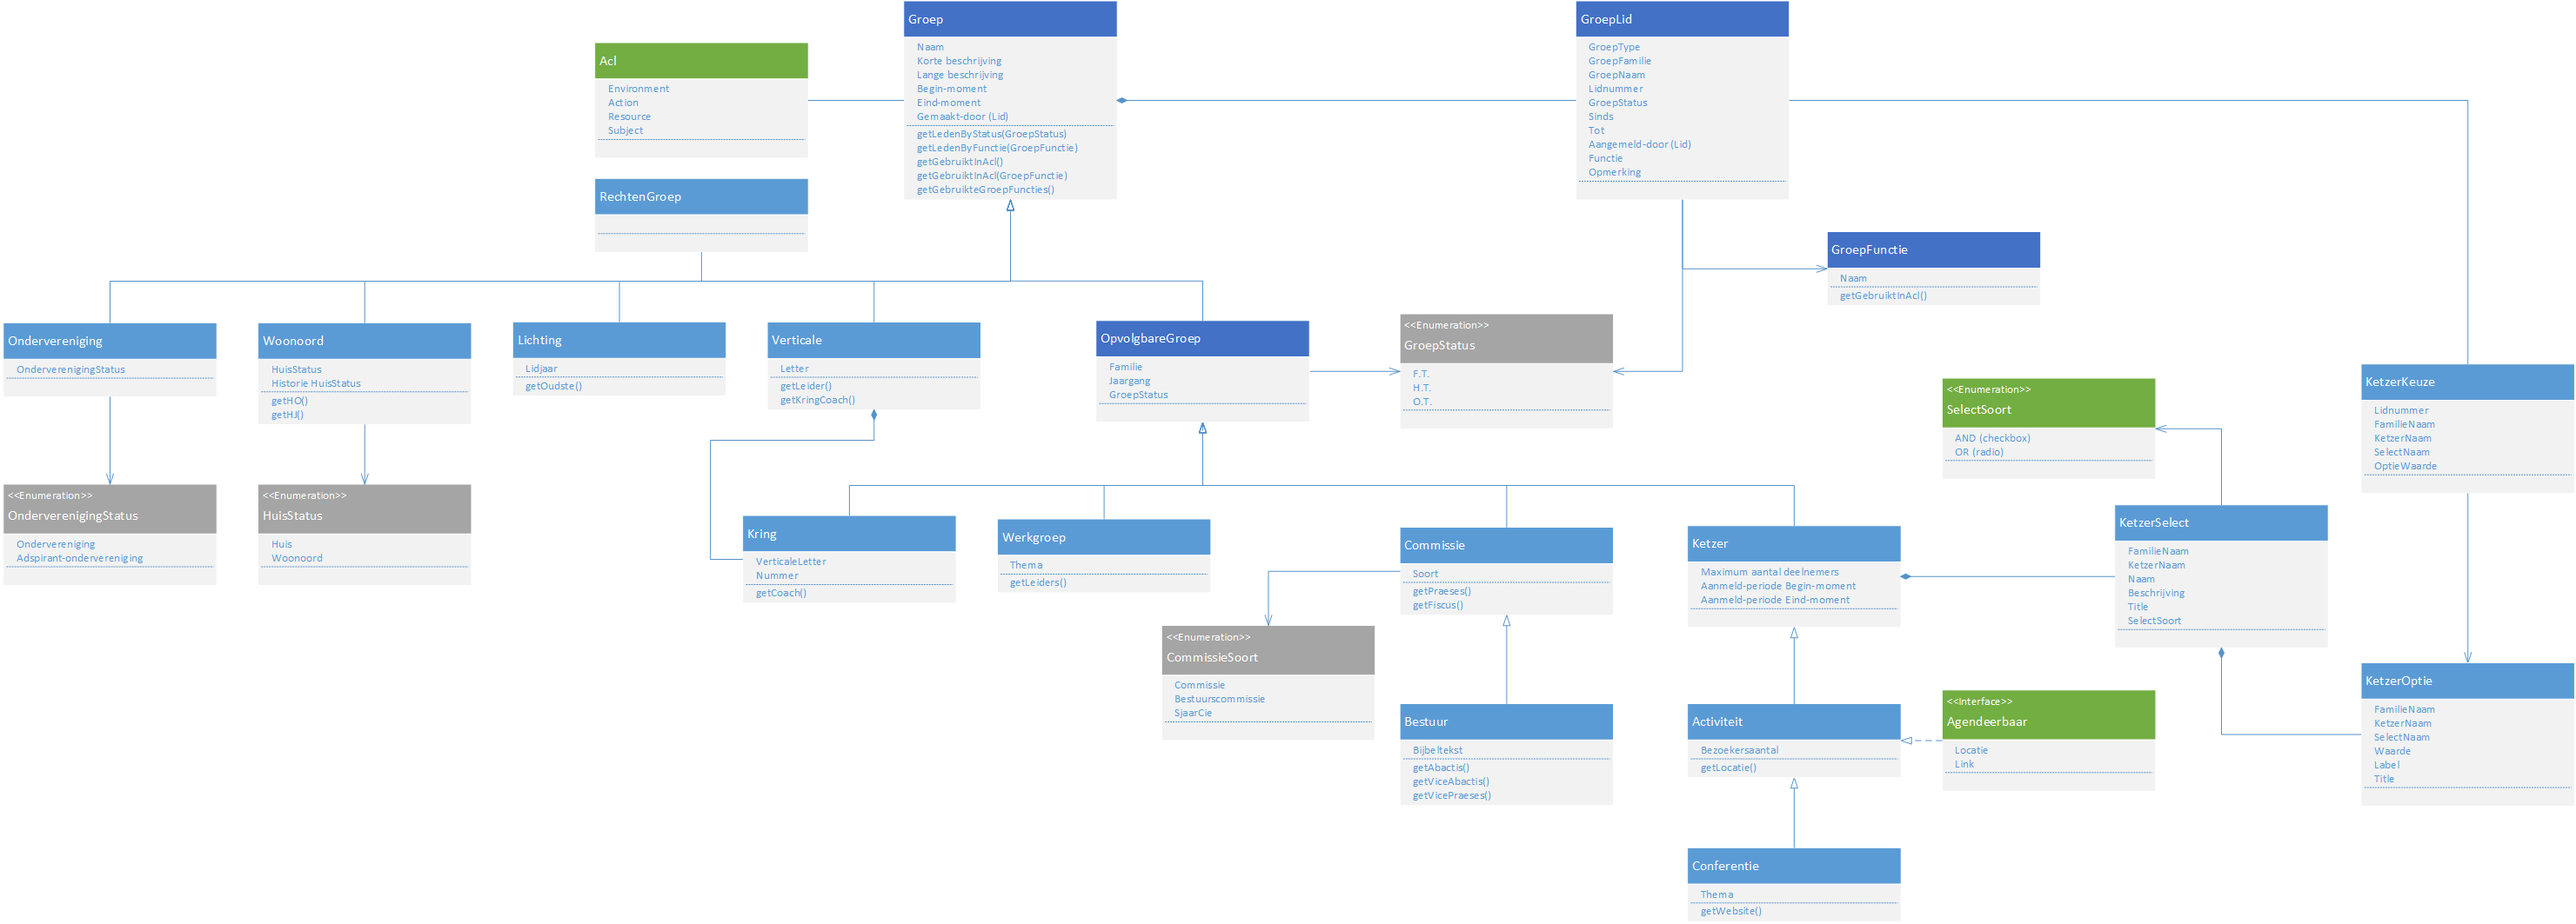
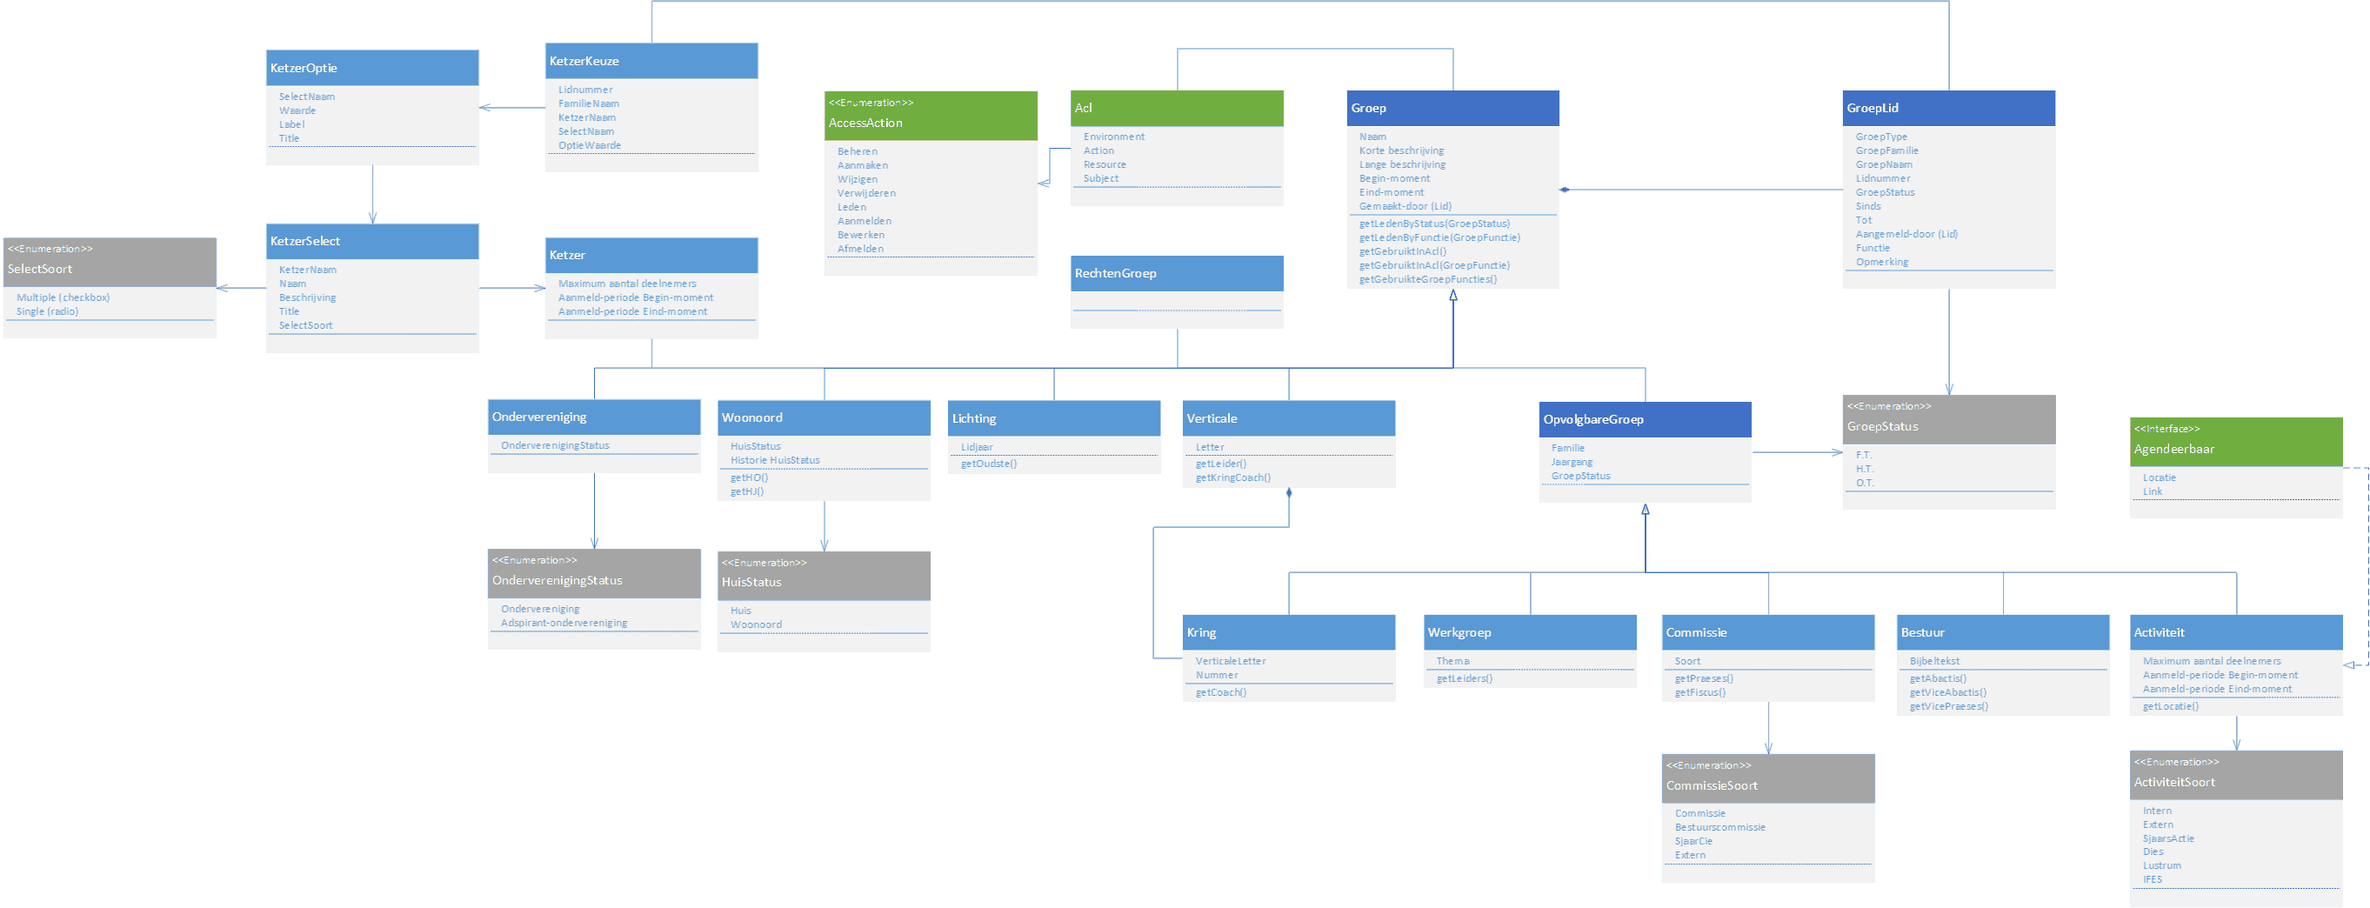
Opvolgbaar abstract; Ketzer niet opvolgbaar;

diff --git a/htdocs/layout/js/csrdelft.dataTables.js b/htdocs/layout/js/csrdelft.dataTables.js
@@ -206,6 +206,7 @@ function fnChildRow(table, $td, column) {
 			var innerDiv = tr.next().children(':first').children(':first');
 			innerDiv.slideUp(400, function () {
 				row.child.hide();
+				tr.removeClass('expanded');
 			});
 		}
 	}

diff --git a/lib/model/entity/groepen/Activiteit.class.php b/lib/model/entity/groepen/Activiteit.class.php
@@ -1,6 +1,5 @@
 <?php
 
-require_once 'model/entity/groepen/Ketzer.class.php';
 require_once 'model/entity/groepen/ActiviteitSoort.enum.php';
 
 /**
@@ -9,7 +8,7 @@ require_once 'model/entity/groepen/ActiviteitSoort.enum.php';
  * @author P.W.G. Brussee <brussee@live.nl>
  * 
  */
-class Activiteit extends Ketzer implements Agendeerbaar {
+class Activiteit extends OpvolgbareGroep implements Agendeerbaar {
 
 	const leden = 'ActiviteitDeelnemersModel';
 
@@ -24,12 +23,42 @@ class Activiteit extends Ketzer implements Agendeerbaar {
 	 */
 	public $locatie;
 	/**
+	 * Maximaal aantal groepsleden
+	 * @var string
+	 */
+	public $aanmeld_limiet;
+	/**
+	 * Datum en tijd aanmeldperiode begin
+	 * @var string
+	 */
+	public $aanmelden_vanaf;
+	/**
+	 * Datum en tijd aanmeldperiode einde
+	 * @var string
+	 */
+	public $aanmelden_tot;
+	/**
+	 * Bedrag in centen
+	 * @var integer
+	 */
+	public $kosten_bedrag;
+	/**
+	 * Rekeningnummer voor machtiging 
+	 * @var string
+	 */
+	public $machtiging_rekening;
+	/**
 	 * Database table columns
 	 * @var array
 	 */
 	protected static $persistent_attributes = array(
-		'soort'		 => array(T::Enumeration, false, 'ActiviteitSoort'),
-		'locatie'	 => array(T::String, true)
+		'soort'					 => array(T::Enumeration, false, 'ActiviteitSoort'),
+		'locatie'				 => array(T::String, true),
+		'aanmeld_limiet'		 => array(T::Integer, true),
+		'aanmelden_vanaf'		 => array(T::DateTime),
+		'aanmelden_tot'			 => array(T::DateTime),
+		'kosten_bedrag'			 => array(T::Integer, true),
+		'machtiging_rekening'	 => array(T::String, true)
 	);
 	/**
 	 * Database table name

diff --git a/lib/model/GroepLedenModel.class.php b/lib/model/GroepLedenModel.class.php
@@ -98,15 +98,7 @@ class VerticaleLedenModel extends GroepLedenModel {
 
 }
 
-class OpvolgbareGroepLedenModel extends GroepLedenModel {
-
-	const orm = 'OpvGroepLid';
-
-	protected static $instance;
-
-}
-
-class KringLedenModel extends OpvolgbareGroepLedenModel {
+class KringLedenModel extends GroepLedenModel {
 
 	const orm = 'KringLid';
 
@@ -114,7 +106,7 @@ class KringLedenModel extends OpvolgbareGroepLedenModel {
 
 }
 
-class WerkgroepDeelnemersModel extends OpvolgbareGroepLedenModel {
+class WerkgroepDeelnemersModel extends GroepLedenModel {
 
 	const orm = 'WerkgroepDeelnemer';
 
@@ -122,7 +114,7 @@ class WerkgroepDeelnemersModel extends OpvolgbareGroepLedenModel {
 
 }
 
-class CommissieLedenModel extends OpvolgbareGroepLedenModel {
+class CommissieLedenModel extends GroepLedenModel {
 
 	const orm = 'CommissieLid';
 
@@ -130,9 +122,17 @@ class CommissieLedenModel extends OpvolgbareGroepLedenModel {
 
 }
 
-class BestuursLedenModel extends OpvolgbareGroepLedenModel {
+class BestuursLedenModel extends GroepLedenModel {
 
 	const orm = 'BestuursLid';
+
+	protected static $instance;
+
+}
+
+class ActiviteitDeelnemersModel extends GroepLedenModel {
+
+	const orm = 'ActiviteitDeelnemer';
 
 	protected static $instance;
 
@@ -141,14 +141,6 @@ class BestuursLedenModel extends OpvolgbareGroepLedenModel {
 class KetzerDeelnemersModel extends GroepLedenModel {
 
 	const orm = 'KetzerDeelnemer';
-
-	protected static $instance;
-
-}
-
-class ActiviteitDeelnemersModel extends KetzersModel {
-
-	const orm = 'ActiviteitDeelnemer';
 
 	protected static $instance;
 

diff --git a/lib/model/GroepenModel.class.php b/lib/model/GroepenModel.class.php
@@ -1,6 +1,6 @@
 <?php
 
-require_once 'model/entity/groepen/OpvolgbareGroep.class.php';
+require_once 'model/entity/groepen/OpvolgbareGroep.abstract.php';
 require_once 'model/GroepLedenModel.class.php';
 
 /**
@@ -105,7 +105,7 @@ class VerticalenModel extends GroepenModel {
 
 }
 
-class OpvolgbareGroepenModel extends GroepenModel {
+abstract class OpvolgbareGroepenModel extends GroepenModel {
 
 	const orm = 'OpvolgbareGroep';
 
@@ -157,19 +157,32 @@ class BesturenModel extends OpvolgbareGroepenModel {
 
 	protected static $instance;
 
+	public function nieuw() {
+		$bestuur = parent::nieuw();
+		$bestuur->bijbeltekst = null;
+		return $bestuur;
+	}
+
+}
+
+class ActiviteitenModel extends OpvolgbareGroepenModel {
+
+	const orm = 'Activiteit';
+
+	protected static $instance;
+
+	public function nieuw() {
+		$activiteit = parent::nieuw();
+		$activiteit->soort = ActiviteitSoort::Intern;
+		$activiteit->locatie = null;
+		return $activiteit;
+	}
+
 }
 
 class KetzersModel extends GroepenModel {
 
 	const orm = 'Ketzer';
-
-	protected static $instance;
-
-}
-
-class ActiviteitenModel extends KetzersModel {
-
-	const orm = 'Activiteit';
 
 	protected static $instance;
 

diff --git a/lib/model/entity/groepen/CommissieSoort.enum.php b/lib/model/entity/groepen/CommissieSoort.enum.php
@@ -13,6 +13,7 @@ abstract class CommissieSoort implements PersistentEnum {
 	const BestuursCommissie = 'b';
 	const Commissie = 'c';
 	const SjaarCie = 's';
+	const Extern = 'e';
 
 	public static function getTypeOptions() {
 		return array(self::BestuursCommissie, self::Commissie, self::SjaarCie);
@@ -23,6 +24,7 @@ abstract class CommissieSoort implements PersistentEnum {
 			case self::BestuursCommissie: return 'Bestuurscommissie';
 			case self::Commissie: return 'Commissie';
 			case self::SjaarCie: return 'SjaarCie';
+			case self::Extern: return 'Externe commissie';
 			default: throw new Exception('CommissieSoort onbekend');
 		}
 	}
@@ -32,6 +34,7 @@ abstract class CommissieSoort implements PersistentEnum {
 			case self::BestuursCommissie:
 			case self::Commissie:
 			case self::SjaarCie:
+			case self::Extern:
 				return $option;
 			default: throw new Exception('CommissieSoort onbekend');
 		}

diff --git a/lib/controller/groepen/GroepenController.class.php b/lib/controller/groepen/GroepenController.class.php
@@ -3,13 +3,13 @@
 require_once 'view/GroepenView.class.php';
 
 /**
- * GroepenController.abstract.php
+ * GroepenController.class.php
  * 
  * @author P.W.G. Brussee <brussee@live.nl>
  * 
  * Controller voor groepen.
  */
-abstract class GroepenController extends Controller {
+class GroepenController extends Controller {
 
 	public function __construct($query, GroepenModel $model) {
 		parent::__construct($query, $model);

diff --git a/lib/model/entity/groepen/OpvolgbareGroep.abstract.php b/lib/model/entity/groepen/OpvolgbareGroep.abstract.php
@@ -3,15 +3,13 @@
 require_once 'model/entity/groepen/Groep.class.php';
 
 /**
- * OpvolgbareGroep.class.php
+ * OpvolgbareGroep.abstract.php
  * 
  * @author P.W.G. Brussee <brussee@live.nl>
  * 
  * Een groep met familie voor opvolging en status.
  */
-class OpvolgbareGroep extends Groep {
-
-	const leden = 'OpvolgbareGroepLedenModel';
+abstract class OpvolgbareGroep extends Groep {
 
 	/**
 	 * Familie (opvolging)

diff --git a/lib/controller/groepen/KetzersController.class.php b/lib/controller/groepen/KetzersController.class.php
@@ -1,13 +1,13 @@
 <?php
 
 /**
- * KetzersController.abstract.php
+ * KetzersController.class.php
  * 
  * @author P.W.G. Brussee <brussee@live.nl>
  * 
  * Controller voor ketzers.
  */
-class KetzersController extends OpvolgbareGroepenController {
+class KetzersController extends GroepenController {
 
 	public function __construct($query) {
 		parent::__construct($query, KetzersModel::instance());

diff --git a/lib/controller/GroepenRouterController.class.php b/lib/controller/GroepenRouterController.class.php
@@ -1,7 +1,7 @@
 <?php
 
 require_once 'model/GroepenModel.class.php';
-require_once 'controller/groepen/OpvolgbareGroepenController.class.php';
+require_once 'controller/groepen/OpvolgbareGroepenController.abstract.php';
 
 /**
  * GroepenRouterController.class.php

diff --git a/lib/controller/groepen/OpvolgbareGroepenController.abstract.php b/lib/controller/groepen/OpvolgbareGroepenController.abstract.php
@@ -1,6 +1,6 @@
 <?php
 
-require_once 'controller/groepen/GroepenController.abstract.php';
+require_once 'controller/groepen/GroepenController.class.php';
 
 /**
  * OpvolgbareGroepenController.abstract.php

diff --git a/lib/model/entity/groepen/Ketzer.class.php b/lib/model/entity/groepen/Ketzer.class.php
@@ -8,7 +8,7 @@
  * Een ketzer is een aanmeldbare groep.
  * 
  */
-class Ketzer extends OpvolgbareGroep {
+class Ketzer extends Groep {
 
 	const leden = 'KetzerLedenModel';
 

diff --git a/lib/controller/groepen/OnderverenigingenController.class.php b/lib/controller/groepen/OnderverenigingenController.class.php
@@ -1,7 +1,7 @@
 <?php
 
 /**
- * OnderverenigingenController.abstract.php
+ * OnderverenigingenController.class.php
  * 
  * @author P.W.G. Brussee <brussee@live.nl>
  * 
